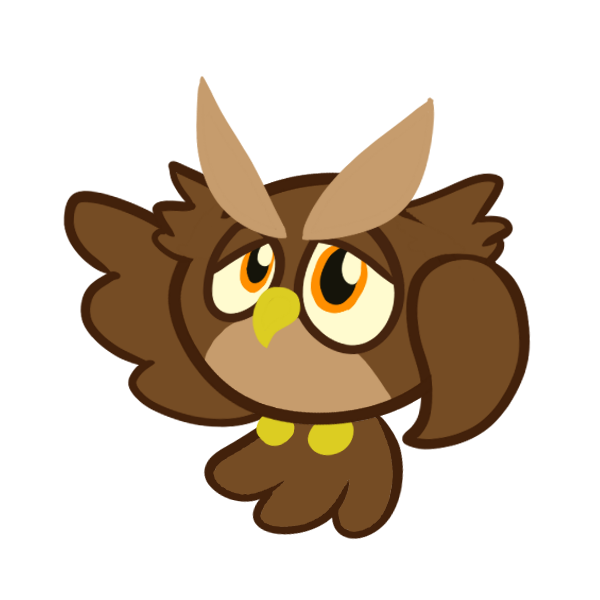
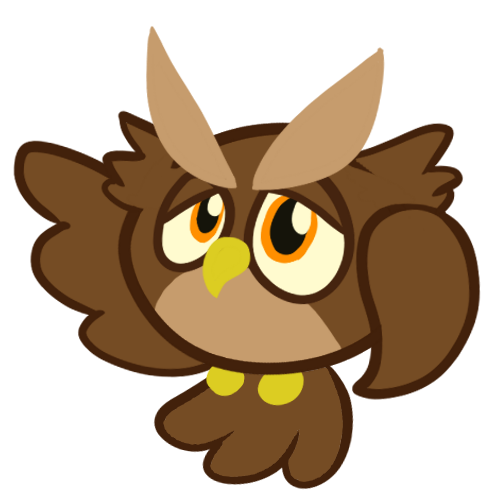
HTML
added header css +owl mascot
added basic required stuff in html
changed size of owl img

diff --git a/assets/css/style.css b/assets/css/style.css
@@ -2,16 +2,57 @@
 {
     /*color pallete*/
   --light: #d6b9ed;
-  --mainColor: #9d53b3;
-  --dark: #4d2464;
+  --mainColor: #b66bcd;
+  --dark: #2c123c;
   --darkGreen: #3d4f0d;
   --lightGreen: #7fad47;
   --greyish: #cec0d5;
 
 }
 
-
-.header h1
+*
 {
-    color: var(--dark);
+  color: var(--dark);
+}
+
+
+.header
+{
+  background-image: linear-gradient(var(--mainColor),var(--light), var(--mainColor));
+  padding: 40px;
+  display: inline-flex;
+  width: 100%;
+
+}
+
+.header h1:after /*The owl mascot*/
+{
+  content: "";
+  background-image: url("../images/owl-mascot.png");
+  background-size: 90px;
+  height: 90px;
+  width: 90px;
+  position: absolute;
+  display: inline-block;
+  margin-left: 20px;
+  margin-top:  -33px; 
+  
+}
+
+
+body
+{
+  background-image: linear-gradient(var(--light) 10%,var(--greyish) , var(--light) 90%);
+}
+
+body > *
+{
+  padding: 40px;
+  line-height: 1.5;
+}
+
+.about
+{
+  padding: 40px;
+  line-height: 1.5;
 }

diff --git a/index.html b/index.html
@@ -14,17 +14,28 @@
 <body>
     <header class="header"> 
         <h1>Camille MacLaren</h1>  
+    
+        <nav> 
+            
+        </nav>
     </header>
 
     <body>
+        <div class="about">
+            <h2>About Me</h2>
+            <p> I'm Camille MacLaren.</p>
+
+        </div>
+
+        <main class="work">
+            <h2> Work</h2>
+
+        </main>
         
-
-
-
-
-
-
-
+        <div class= "Contact">
+            <h3>Contact</h3>
+        </div>
+        
 
 
     </body>
@@ -33,18 +44,10 @@
 
 
 
-    <footer>
+    <footer class="footer">
+        
 
     </footer>
-
-
-
-
-
-
-
-
-
 
 
 </body>
